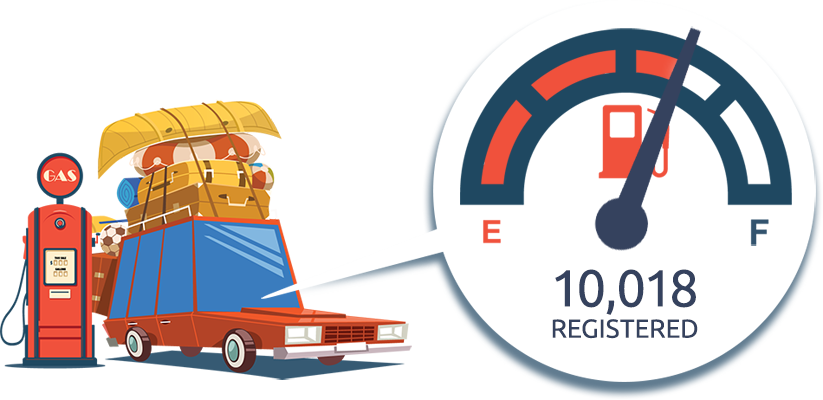
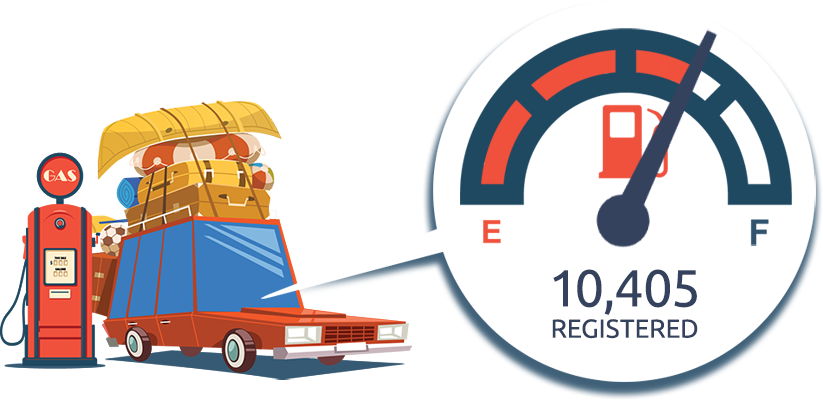
updating/adding meter

diff --git a/summer-reading/registration/index.html b/summer-reading/registration/index.html
@@ -97,6 +97,24 @@ e.async=true;var t=document.getElementsByTagName("script")[0];t.parentNode.inser
 filter: progid:DXImageTransform.Microsoft.gradient( startColorstr='#375972', endColorstr='#578ec7', GradientType=0 );
 	margin-top: -5px;
 }
+	.odometer {
+		color: #fff;
+			background: -moz-linear-gradient(top, #c33b3e 0%, #8e0000 50%, #c33b3e 100%);
+	background: -webkit-linear-gradient(top, #c33b3e 0%, #8e0000 50%, #c33b3e 100%);
+	background: linear-gradient(to bottom, #c33b3e 0%, #8e0000 50%, #c33b3e 100%);
+		padding: 8px;
+		margin: 1px;
+		font-weight: 700;
+		
+	}
+
+		.odometer:nth-child(6) {
+		color: #333;
+			background: -moz-linear-gradient(top, #fff 0%, #ccc 50%, #fff 100%);
+	background: -webkit-linear-gradient(top, #fff 0%, #ccc 50%, #fff 100%);
+	background: linear-gradient(to bottom, #fff 0%, #ccc 50%, #fff 100%);
+margin-left: 3px;
+	}
 .btn-primary {
 	background-color: #375972;
 }
@@ -423,7 +441,7 @@ height="0" width="0" style="display:none;visibility:hidden"></iframe>
       <div class="box-wrapper">
         <div class="box-one">
           <h4 class="black roboto no-margin-top">Help us meet our community goal of 16,775 people signed up!</h4>
-          <div>If we meet our goal, the Douglas County Libraries Foundation will donate $500 to Nature’s Educators, a top-rated nonprofit educational wildlife organization in Douglas County. </div>
+          <div>If we meet our goal, the Douglas County Libraries Foundation will donate $500 to Nature’s Educators, a top-rated nonprofit educational wildlife organization in Douglas County. </div><div class="margin-10"><span class="odometer">1</span><span class="odometer">0</span><span class="font-weight-500 black">,</span><span class="odometer">4</span><span class="odometer">0</span><span class="odometer">5</span></div><div class="small text-uppercase">Registered</div>
         </div>
         <div class="box-two">
           <h4 class="black roboto no-margin-top">On the road to a reward! Help your school win $250!</h4>
